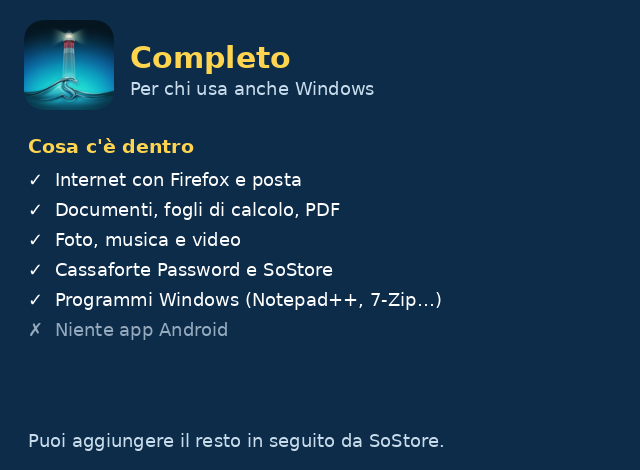
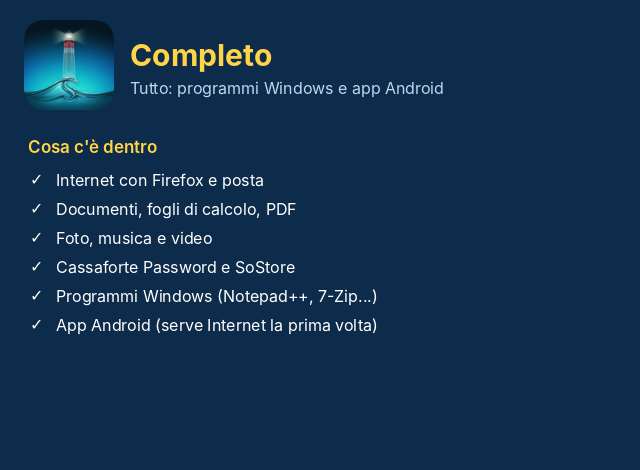
Installatore: 4 livelli chiari (Base, Base + Android, Base + Windows, Completo)
Claude-Session: https://claude.ai/code/session_01WGanj22VnQw9BFDcJV8uPd

diff --git a/tools/crea_livelli.py b/tools/crea_livelli.py
@@ -1,0 +1,32 @@
+#!/usr/bin/env python3
+"""Genera le immagini dei livelli dell'installatore in usr/share/sofios/livelli/."""
+import sys
+from PIL import Image, ImageDraw, ImageFont
+D = sys.argv[1] if len(sys.argv) > 1 else "."
+F = "/usr/share/fonts/opentype/inter/Inter-%s.otf"
+def f(s, n): return ImageFont.truetype(F % s, n)
+LOGO = "live/config/includes.chroot_after_packages/usr/share/sofios/logo.png"
+BASE = ["Internet con Firefox e posta", "Documenti, fogli di calcolo, PDF",
+        "Foto, musica e video", "Cassaforte Password e SoStore"]
+W = "Programmi Windows (Notepad++, 7-Zip...)"
+A = "App Android (serve Internet la prima volta)"
+L = {
+ "base": ("Base", "Il necessario, il più leggero", BASE, [W, A]),
+ "android": ("Base + Android", "Il necessario più le app del telefono", BASE + [A], [W]),
+ "windows": ("Base + Windows", "Il necessario più i programmi Windows", BASE + [W], [A]),
+ "completo": ("Completo", "Tutto: programmi Windows e app Android", BASE + [W, A], []),
+}
+for k, (t, s, si, no) in L.items():
+    im = Image.new("RGB", (640, 470), (13, 43, 74)); d = ImageDraw.Draw(im)
+    lg = Image.open(LOGO).convert("RGBA").resize((90, 90)); im.paste(lg, (24, 20), lg)
+    d.text((130, 36), t, font=f("Bold", 30), fill=(255, 212, 71))
+    d.text((130, 78), s, font=f("Regular", 16), fill=(190, 215, 240))
+    d.text((28, 136), "Cosa c'è dentro", font=f("SemiBold", 17), fill=(255, 212, 71))
+    y = 170
+    for x in si:
+        d.text((30, y), "✓", font=ImageFont.truetype("/usr/share/fonts/truetype/dejavu/DejaVuSans.ttf", 16), fill=(255, 255, 255))
+        d.text((56, y), x, font=f("Regular", 16), fill=(255, 255, 255)); y += 29
+    for x in no:
+        d.text((30, y), "✗", font=ImageFont.truetype("/usr/share/fonts/truetype/dejavu/DejaVuSans.ttf", 16), fill=(150, 170, 195))
+        d.text((56, y), x.split(" (")[0] + " (non incluso)", font=f("Regular", 16), fill=(150, 170, 195)); y += 29
+    im.save(f"{D}/{k}.png")

diff --git a/tools/installa-iso.py b/tools/installa-iso.py
@@ -1,6 +1,6 @@
 #!/usr/bin/env python3
 """Installa la ISO su un disco virtuale (QEMU/UEFI) scegliendo un livello, con schermate vere.
-Uso: installa-iso.py ISO CARTELLA MINUTI LIVELLO(essenziale|completo|completo-android)
+Uso: installa-iso.py ISO CARTELLA MINUTI LIVELLO(base|android|windows|completo)
 Non e' un test: se qualcosa non va, salva comunque quello che ha visto e un file registro.txt."""
 import os, sys, time, socket, subprocess, hashlib, glob, shutil
 
@@ -93,12 +93,12 @@ def scrivi(testo):
         elif c.isupper(): tasti("shift-" + c.lower())
         elif c in SPECIALI: tasti(SPECIALI[c])
         else: tasti(c)
-livello = sys.argv[4] if len(sys.argv) > 4 else "essenziale"
+livello = sys.argv[4] if len(sys.argv) > 4 else "base"
 def aspetta(sec, nome, ogni=15):
     fine = time.time() + sec
     while time.time() < fine and proc.poll() is None:
         foto(nome); time.sleep(ogni)
-LIV = {"essenziale": (365, 134), "completo": (363, 149), "completo-android": (390, 164)}
+LIV = {"base": (365, 134), "android": (365, 149), "windows": (365, 164), "completo": (365, 179)}
 try:
     aspetta(30, "avvio", 10); tasti("ret")
     aspetta(60, "caricamento", 10)

diff --git a/tools/avvia-disco.py b/tools/avvia-disco.py
@@ -1,6 +1,6 @@
 #!/usr/bin/env python3
 """Installa la ISO su un disco virtuale (QEMU/UEFI) scegliendo un livello, con schermate vere.
-Uso: installa-iso.py ISO CARTELLA MINUTI LIVELLO(essenziale|completo|completo-android)
+Uso: installa-iso.py ISO CARTELLA MINUTI LIVELLO(base|android|windows|completo)
 Non e' un test: se qualcosa non va, salva comunque quello che ha visto e un file registro.txt."""
 import os, sys, time, socket, subprocess, hashlib, glob, shutil
 
